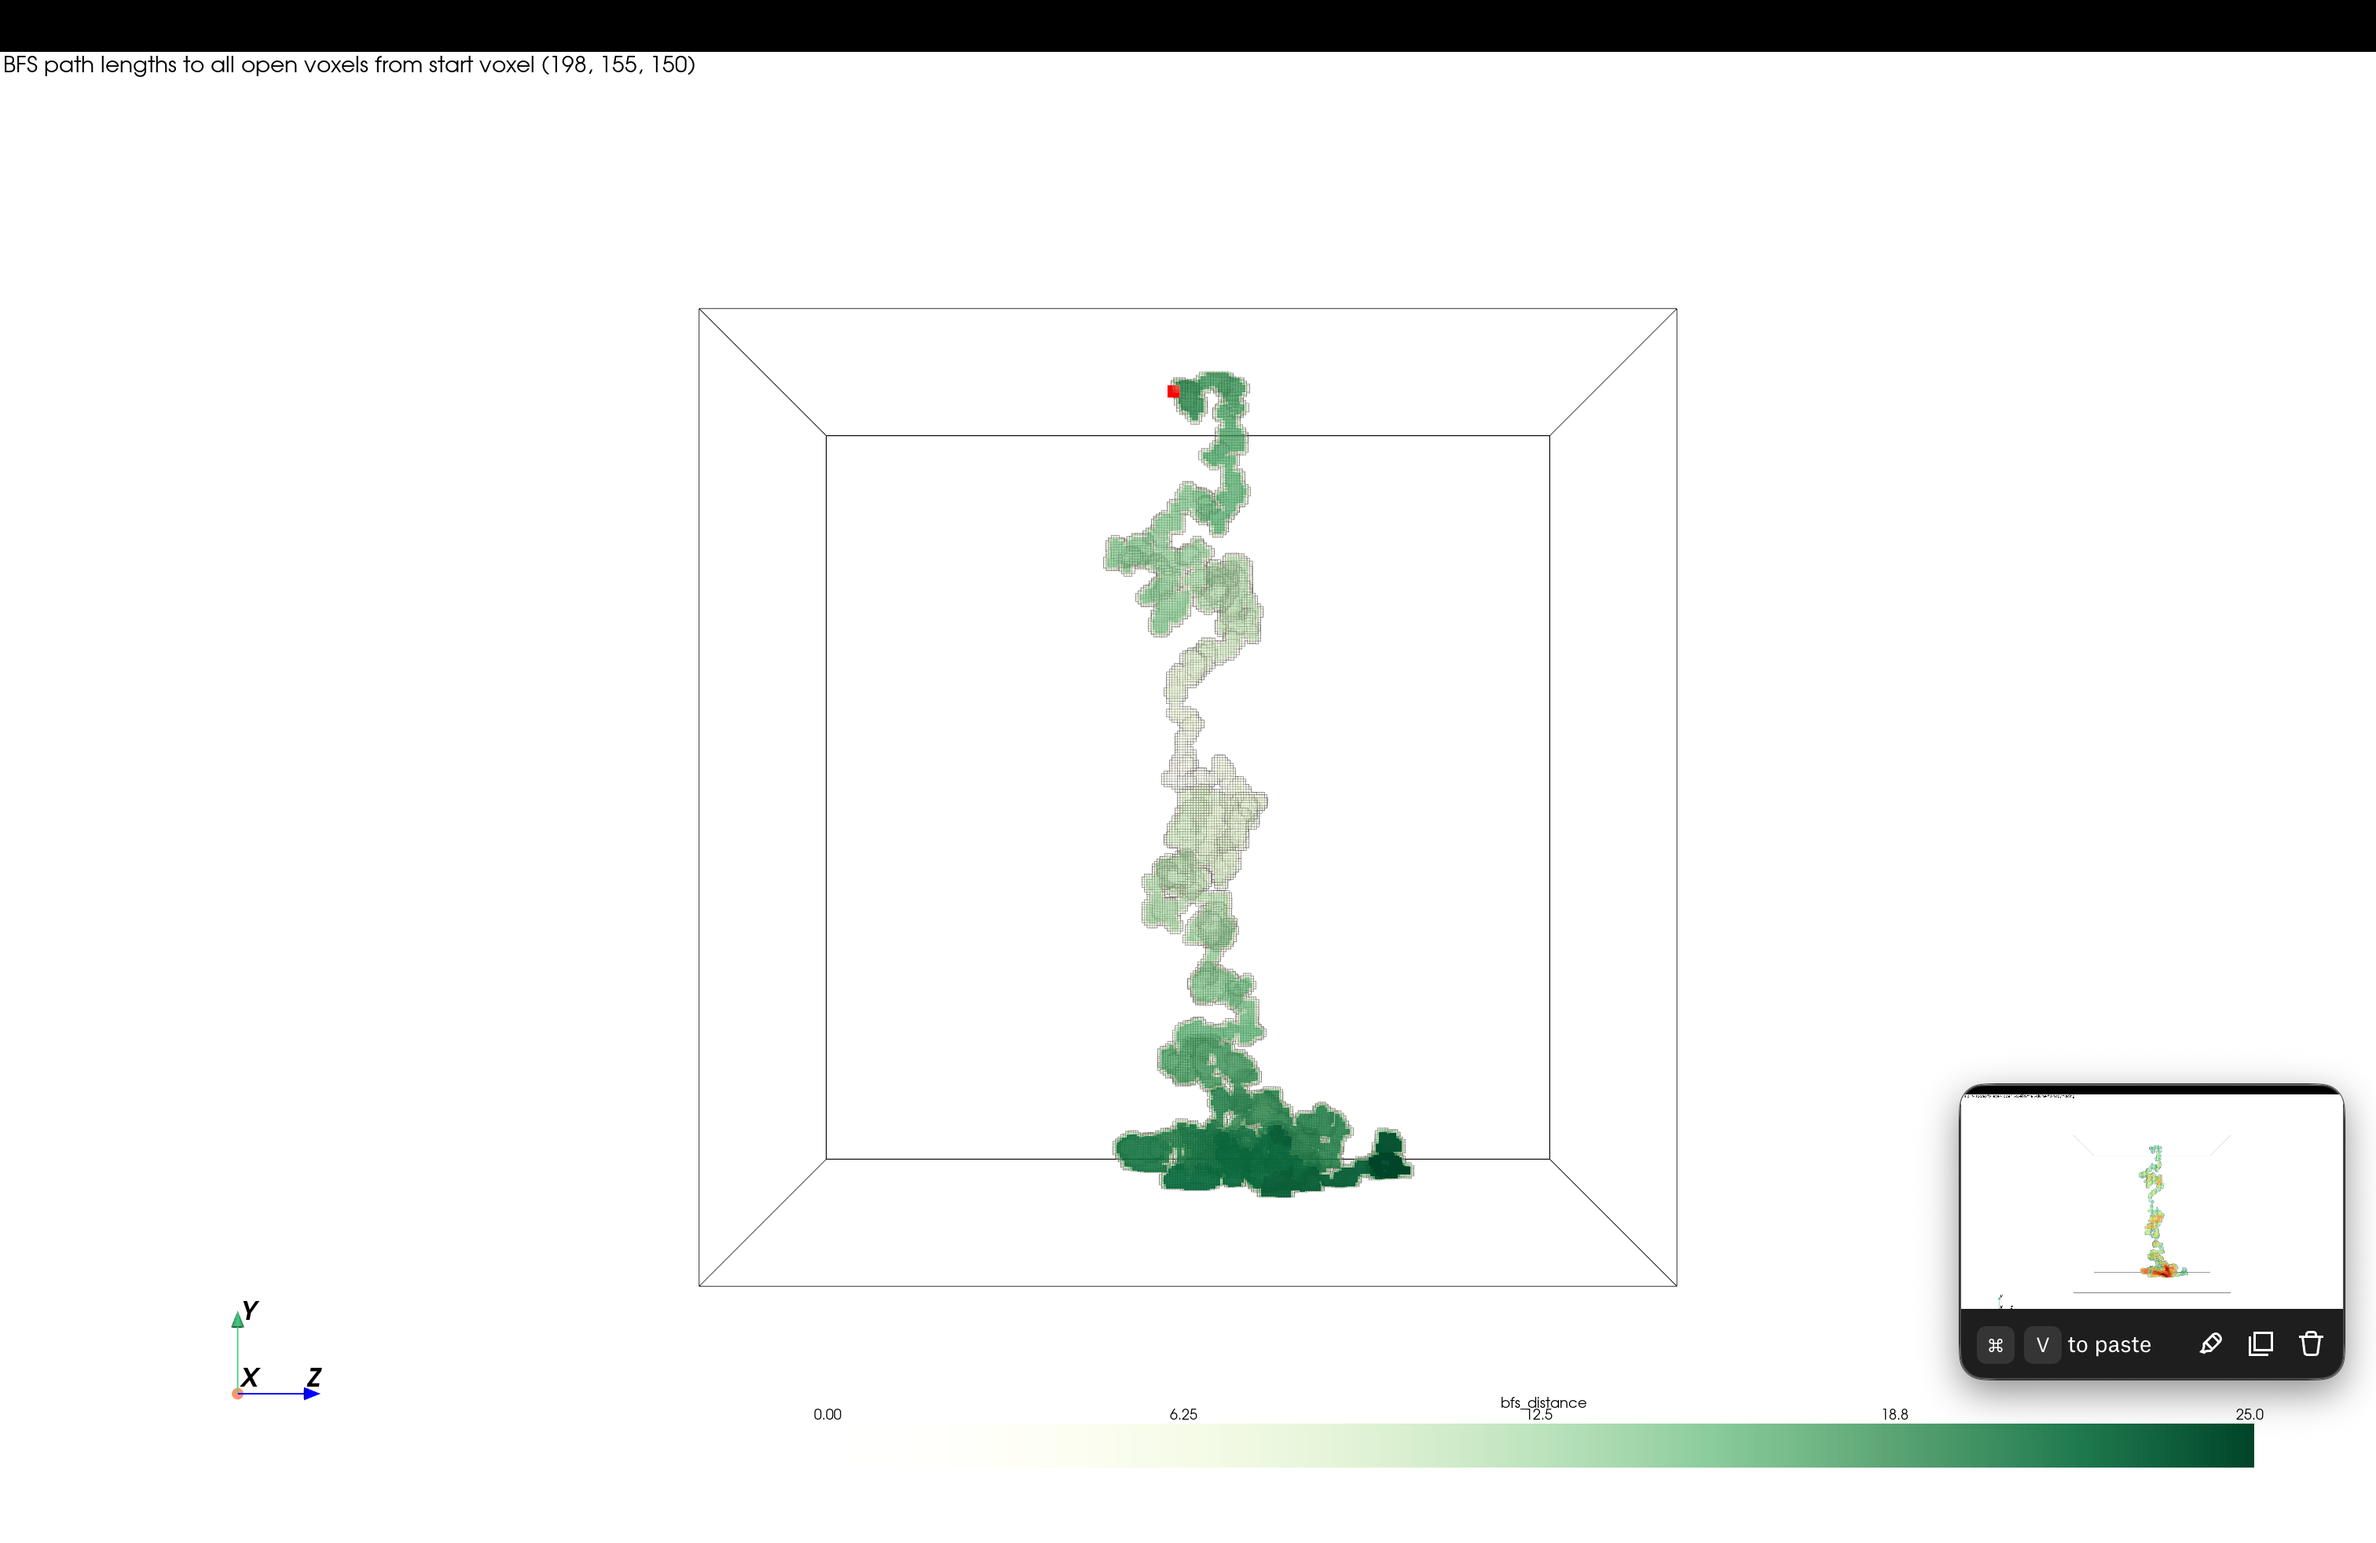
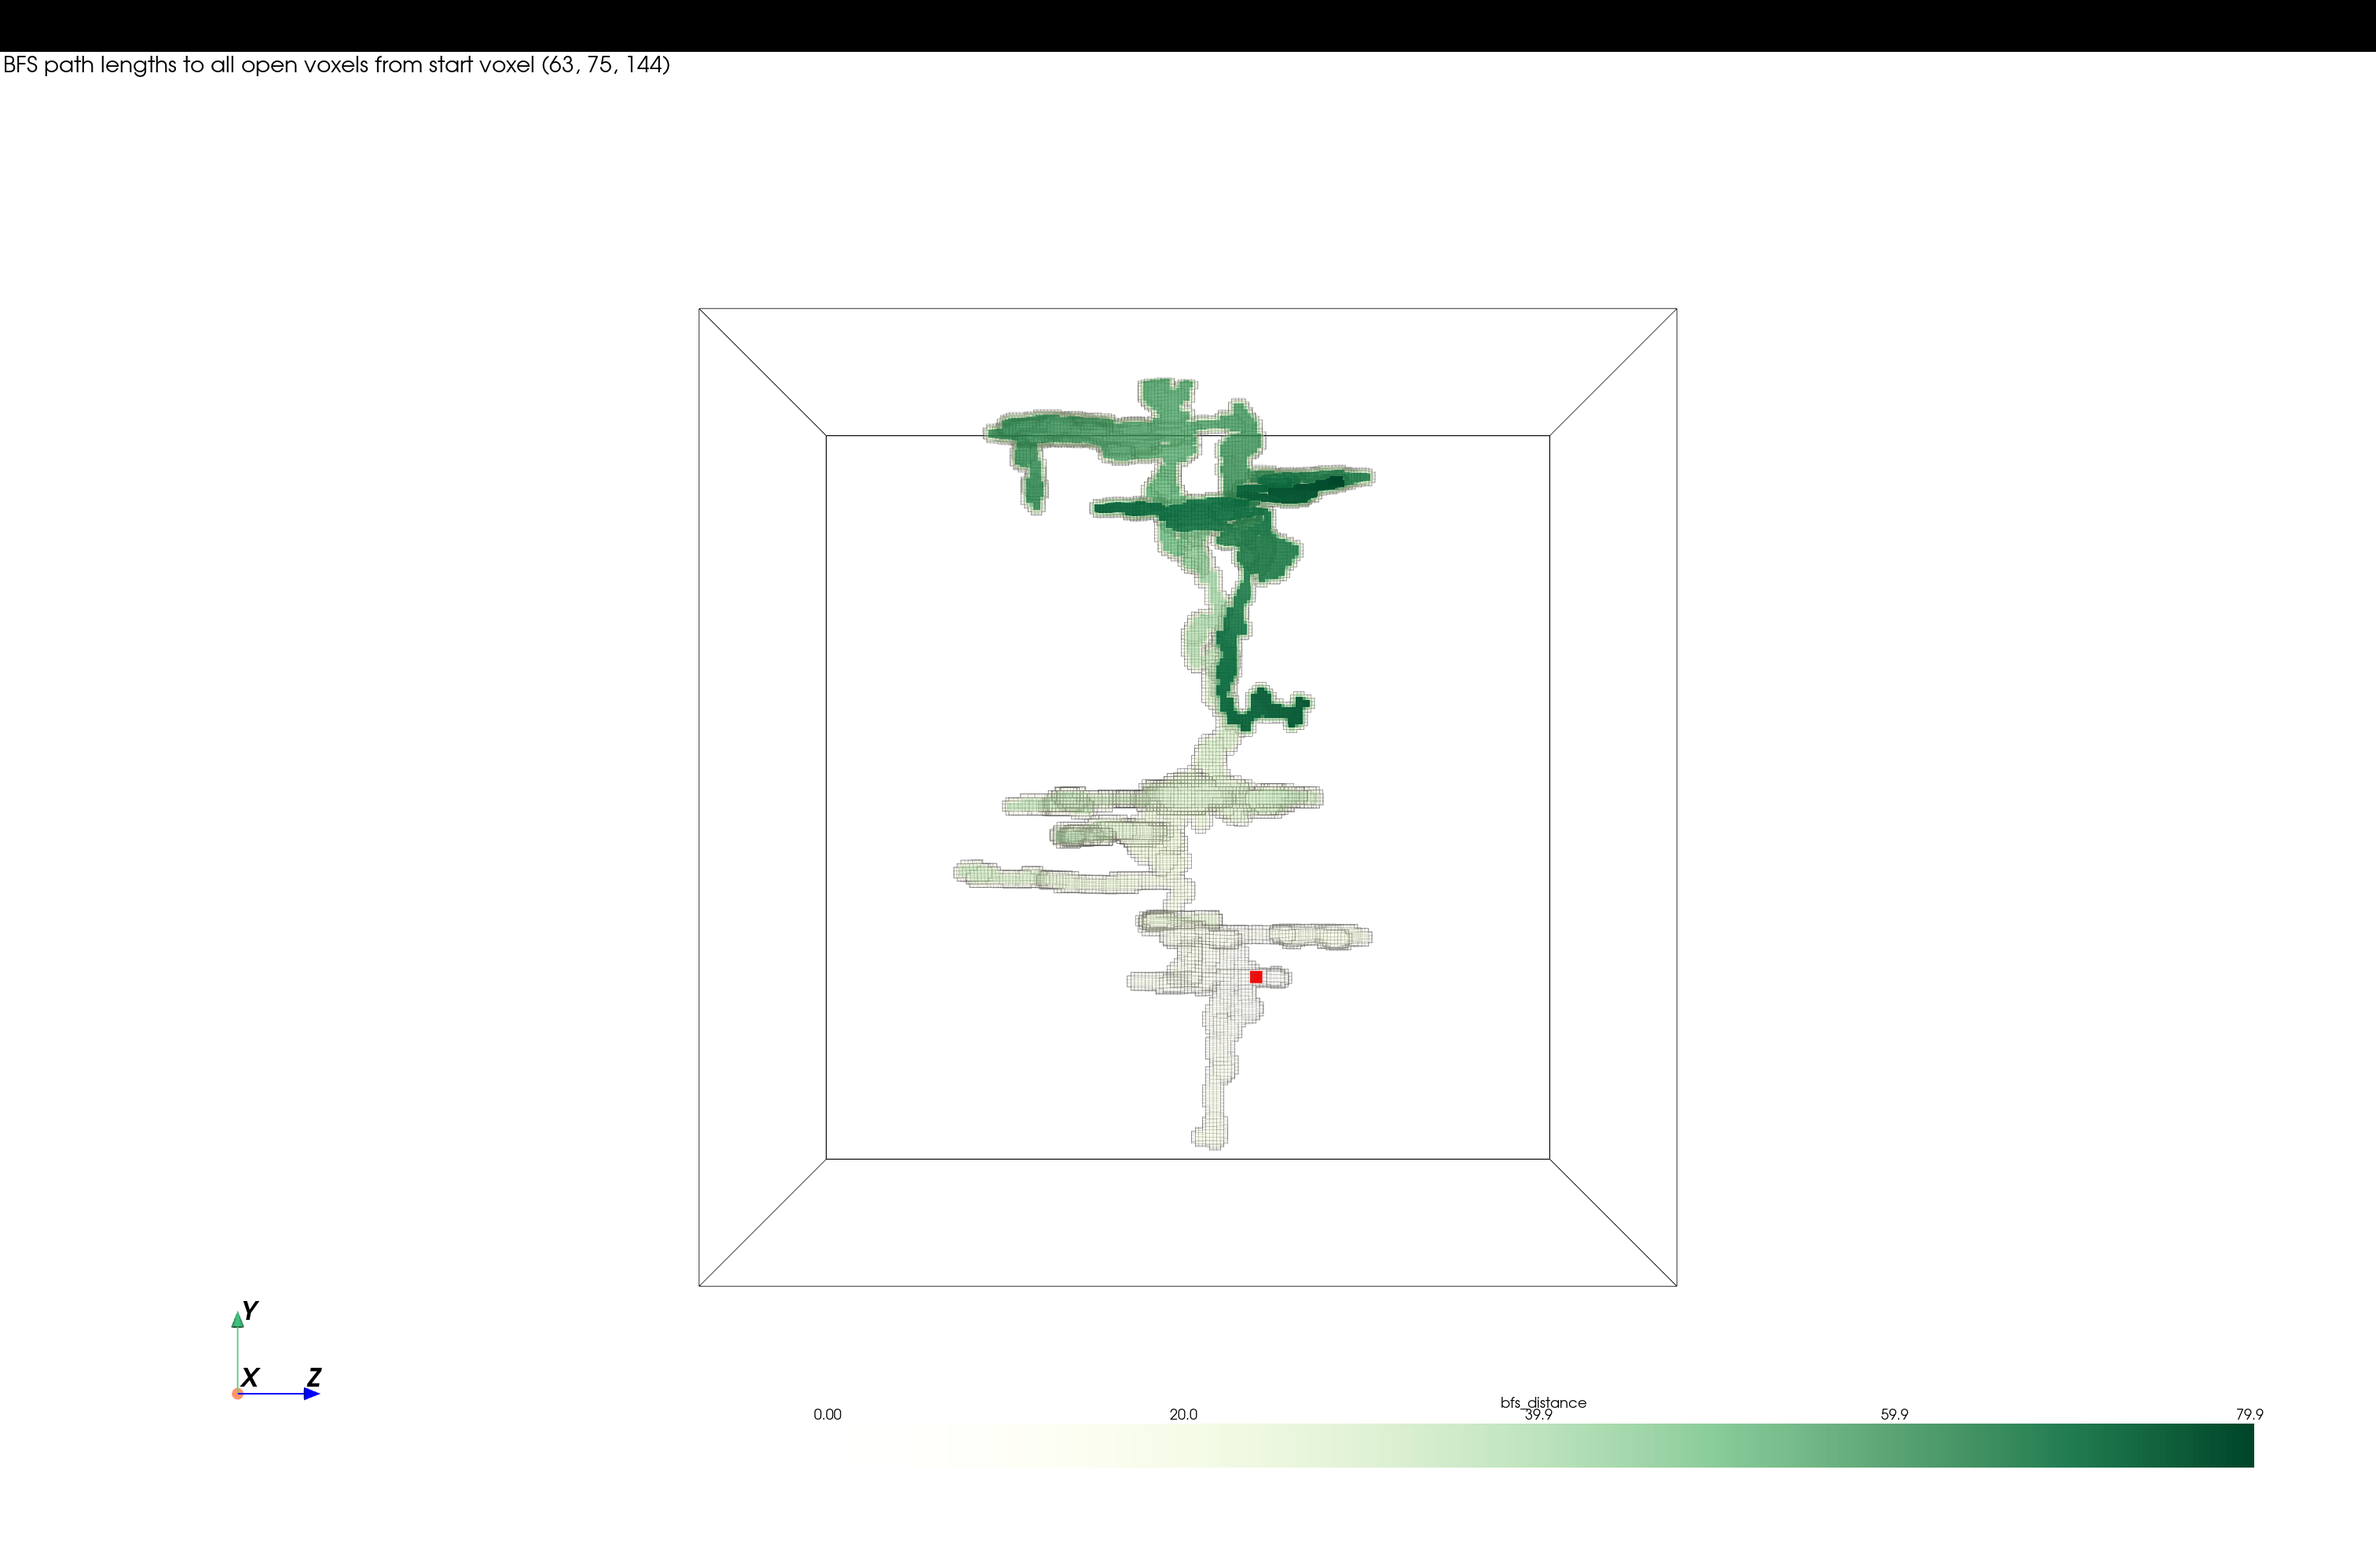
adapting nest excavator

Changed region(s): [[0.4041, 0.2174, 0.5906, 0.7765], [0.8082, 0.6833, 0.9947, 0.9318], [0.2487, 0.0311, 0.2798, 0.0621]]

diff --git a/src/seevol/generator.py b/src/seevol/generator.py
@@ -9,11 +9,11 @@ import numpy as np
 import random
 
 
-def excavate_tunnels(size=100, n_steps=20000, branch_prob=1e-5, radius=1, seed=0):
+def excavate_tunnels(size=200, n_steps=15000, branch_prob=1e-3, radius=1, seed=0):
     """
-    Creates a solid grid volume (default volume 100^3 voxels) with excavated tunnels.
-
-    Produces a volume with fully-connected and randomly carved tunnels within that grid volume.
+    - Creates a volume (default volume 150^3 voxels) with excavated tunnels.
+    - Volume with fully-connected and randomly carved tunnels within that grid volume.
+    - 2 main excavation phases involved: Early (x/z biased) and Established (-y biased) excavation from head units ("ants")  
     """
 
     rng = random.Random(seed)
@@ -38,39 +38,71 @@ def excavate_tunnels(size=100, n_steps=20000, branch_prob=1e-5, radius=1, seed=0
         # excavation step i.e. set carved voxel(s) == 0
         vol[low[0] : high[0], low[1] : high[1], low[2] : high[2]] = 0
 
-    # begin excavation with starting position/head near top in centre
-    starting_head = (size // 2, size - 1, size // 2)
-    excavate(starting_head)
+    # begin excavation with starting position/head near top in centre (+ 1000 as step counter for first head only)
+    starting_head = [size // 2, size - 1, size // 2, size*7]
+    excavate(starting_head[0:3]) # x,y,z passed to excavator function
 
-    # active excavators list - starts with just one
+    # active excavators list (of lists) - starts with just one
+    # each individual head/excavator will be [x, y, z, steps]
     heads = [starting_head]
 
-    # apply a slight -y bias for increased chance of excavating down (more ant-like)
+    # first steps for each new head have an x and z bias (mimics ant chambers)
     # (change these values in each axes to adjust overall excavation shapes)
-    moves = (
-        [(1, 0, 0)] * 20  # x
-        + [(-1, 0, 0)] * 20  # -x
-        + [(0, 1, 0)] * 20  # y
-        + [(0, -1, 0)] * 22  # -y
-        + [(0, 0, 1)] * 20  # z
-        + [(0, 0, -1)] * 20  # -z
+    moves_early = (
+        [(1, 0, 0)] * 50  # x
+        + [(-1, 0, 0)] * 50  # -x
+        + [(0, 1, 0)] * 1  # y
+        + [(0, -1, 0)] * 1  # -y
+        + [(0, 0, 1)] * 50  # z
+        + [(0, 0, -1)] * 50  # -z
+    )
+
+    # for established and original head, apply a slight -y bias for increased chance of excavating down (more ant-like)
+    # (change these values in each axes to adjust overall excavation shapes)
+    moves_established = (
+        [(1, 0, 0)] * 5  # x
+        + [(-1, 0, 0)] * 5  # -x
+        + [(0, 1, 0)] * 10  # y
+        + [(0, -1, 0)] * 12  # -y
+        + [(0, 0, 1)] * 5  # z
+        + [(0, 0, -1)] * 5  # -z
     )
 
     for _ in range(n_steps):
+
         # at every step select one random excavator head + selects new coordinates
         head_idx = rng.randrange(len(heads))
-        x, y, z = heads[head_idx]
-        dx, dy, dz = rng.choice(moves)
-        nx, ny, nz = x + dx, y + dy, z + dz  # new head coordinates
+        # sets current location for excavation as first 3 values in sleected head
+        x, y, z = heads[head_idx][0:3]
+        # gets current step count of head
+        head_steps = heads[head_idx][-1]
+
+        # condition decides which move list to use (x- or y- bias) based on size of volume
+        if head_steps <= size*7:
+            dx, dy, dz = rng.choice(moves_early)
+        else:
+            dx, dy, dz = rng.choice(moves_established)
+
+        # new head coordinates
+        nx, ny, nz = x + dx, y + dy, z + dz  
 
         # only excavates if the new coordinates are within size of volume
         if 0 <= nx < size and 0 <= ny < size and 0 <= nz < size:
             # excavate at new coords and update head coordinates
             excavate((nx, ny, nz))
-            heads[head_idx] = (nx, ny, nz)
+            heads[head_idx][0:3] = (nx, ny, nz)
+
+            # add to step count
+            new_steps = head_steps +1
+            heads[head_idx][-1] = new_steps
 
             # occasionally start/add new head at current position
             if rng.random() < branch_prob:
-                heads.append((nx, ny, nz))
 
+                # new head starts at these new coords and has step counter set to 0
+                heads.append([nx, ny, nz, 0]) 
+
+    print(f"Volume generated with {len(heads)} excavating heads over {n_steps} steps.")
     return vol
+
+

diff --git a/src/seevol/pyvista_BFS_spatial.py b/src/seevol/pyvista_BFS_spatial.py
@@ -25,7 +25,7 @@ def bfs_all_vis(vol, x0, y0, z0):
     # now gamma compress the distances so low/high aren't as far visually
     # as long as not unreachable/-1 due to power error
     mask = distances != -1
-    distances[mask] = distances[mask] ** 0.5
+    distances[mask] = distances[mask]**0.7
 
     # create 3D grid with dimensions defined by .npy volume size (+ 1 cell in each dimension for pyvista)
     p = pv.Plotter()
@@ -65,8 +65,7 @@ def bfs_all_vis(vol, x0, y0, z0):
     )
 
     # mark start voxel
-    # T0D0: fix this as it is not marking start voxel
-    p.add_points(np.array([coords[0]], dtype=float), color="red", point_size=16)
+    p.add_points(np.array((x0,y0,z0), dtype=float), color="red", point_size=16)
     p.add_text(
         f"BFS path lengths to all open voxels from start voxel {int(x0), int(y0), int(z0)}",
         font_size=12,
@@ -115,9 +114,9 @@ def bfs_shortest_vis(vol, x0, y0, z0, x1, y1, z1):
     p.add_mesh(line, color="red", line_width=4)
 
     # mark start/end voxels
-    p.add_points(np.array([path_coords[0]], dtype=float), color="green", point_size=16)
+    p.add_points(np.array((x0,y0,z0), dtype=float), color="green", point_size=16)
     p.add_points(
-        np.array([path_coords[-1]], dtype=float), color="orange", point_size=16
+        np.array((x1,y1,z1), dtype=float), color="orange", point_size=16
     )
 
     p.add_text(

diff --git a/examples/visualiser_example.py b/examples/visualiser_example.py
@@ -11,7 +11,7 @@ import seevol
 
 # create example NumPy volume with excavate_tunnels() function
 example_nest = seevol.excavate_tunnels(
-    size=300, seed=758, n_steps=30000, branch_prob=1e-5, radius=1
+    size=250, n_steps=30000, seed=135, branch_prob=1e-3, radius=1
 )
 open_coords = np.argwhere(example_nest == 0)
 
@@ -19,12 +19,13 @@ open_coords = np.argwhere(example_nest == 0)
 seevol.visibility_vis(example_nest, view_type="mip", verbose=True)
 
 # view BFS distances from start voxel(x0,y0,z0) in pyvista window
-x0, y0, z0 = open_coords[20000]
+x0, y0, z0 = open_coords[2000]
+print(x0,y0,z0)
 seevol.bfs_all_vis(example_nest, x0=x0, y0=y0, z0=z0)
 
 # view shortest path from BFS algorithm between two voxels
-x0, y0, z0 = open_coords[20000]
-x1, y1, z1 = open_coords[60000]
+x0, y0, z0 = open_coords[1000]
+x1, y1, z1 = open_coords[36600]
 seevol.bfs_shortest_vis(example_nest, x0=x0, y0=y0, z0=z0, x1=x1, y1=y1, z1=z1)
 
 # extract surfaces (WIP - TODO)

diff --git a/src/seevol/pyvista_AW_visibility.py b/src/seevol/pyvista_AW_visibility.py
@@ -41,7 +41,7 @@ def visibility_vis(vol, view_type="mip", verbose=False):
     n_rays = n * (n - 1) // 2
     scores = counts / (n - 1)  # normalises if un-hashed
     # now gamma compress the scores so low/high aren't as far visually
-    scores = scores**0.4
+    scores = scores**0.6
 
     # create 3D grid with dimensions defined by .npy volume size (+ 1 cell in each dimension for pyvista)
     p = pv.Plotter()
@@ -76,7 +76,7 @@ def visibility_vis(vol, view_type="mip", verbose=False):
         p.add_volume(
             grid,
             scalars="voxel_visibility_score",
-            cmap="turbo",
+            cmap="viridis_r",
             blending="maximum",
             shade=False,
             opacity="linear",

diff --git a/src/seevol/helpers.py b/src/seevol/helpers.py
@@ -7,7 +7,6 @@
 
 import numpy as np
 
-
 def binary_swap(vol):
     """
     Inverts a binary NumPy 0/1 volume for easy conversion.

diff --git a/dev_log.md b/dev_log.md
@@ -234,3 +234,4 @@ find src \( -name "*.cpp" -o -name "*.hpp" \) -exec clang-format -i {} \;
 ## 22-11-26  
 
 - re-wrote README for less focus on just visibility side  
+- updating tunnel excatavor to dig differently based on condition of no. of steps head has taken  
